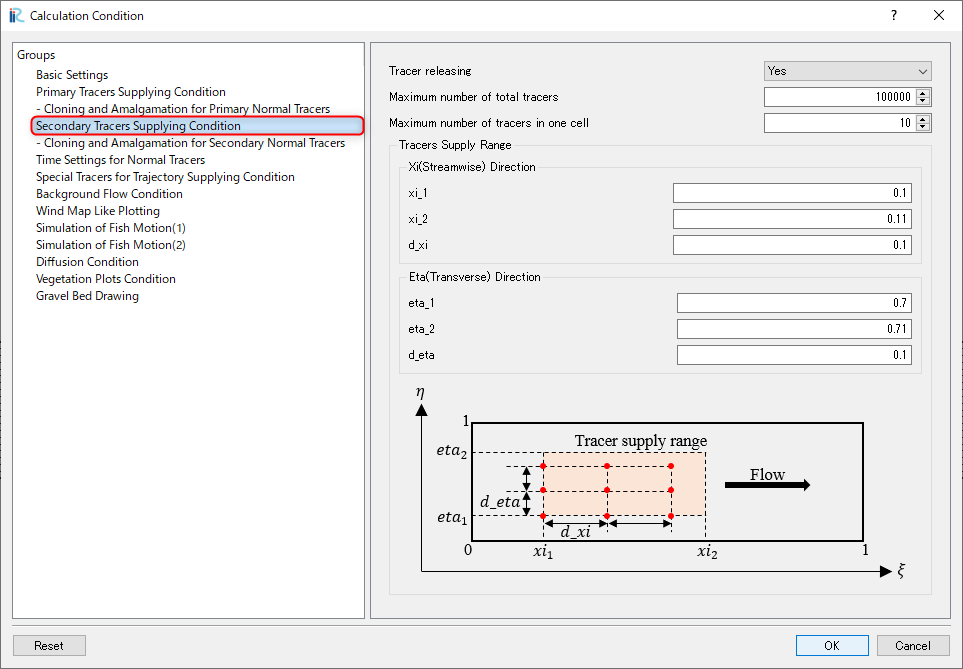
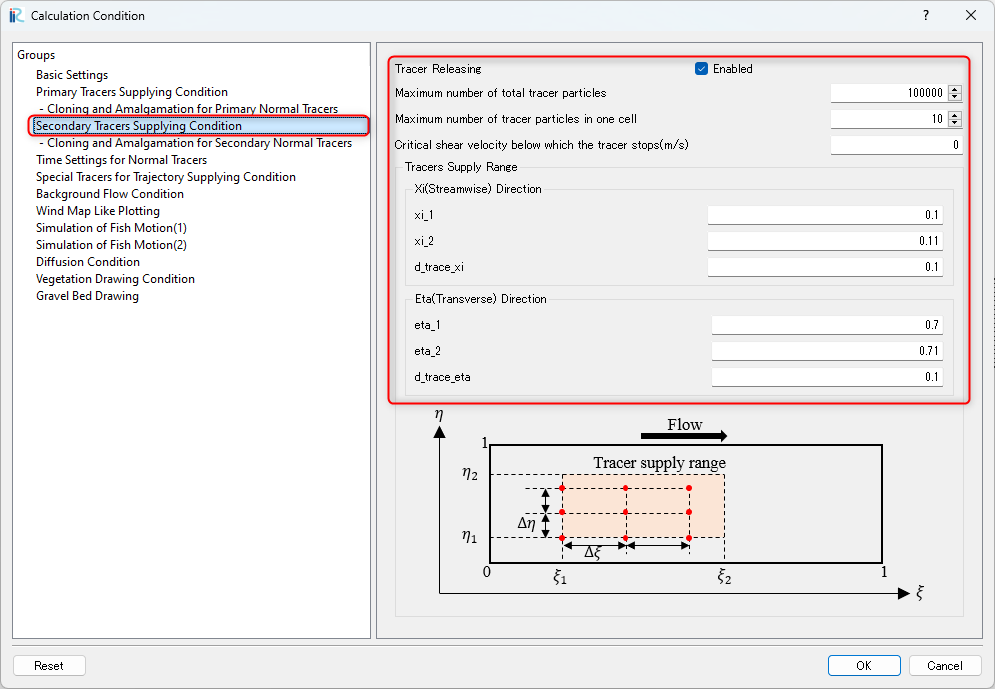
計算例1を更新

Changed region(s): [[0.0, 0.0, 1.0, 1.0], [0.0, 0.0, 0.1558, 0.0299], [0.9034, 0.0, 0.9346, 0.0299]]

diff --git a/source/03_Examples/01_Straight.rst b/source/03_Examples/01_Straight.rst
@@ -37,8 +37,7 @@ Grid Generation
 -------------------
 
 
-From the main menu of the screen, :numref:`01_mudai`, choose [Grid]->[Select Algorithm to Create Grid]
-as :numref:`Select_Alg`.
+From the main menu of the screen, :numref:`01_mudai`, choose [Grid]->[Select Algorithm to Create Grid] as :numref:`Select_Alg`.
 
 .. _Select_Alg:
 
@@ -48,9 +47,7 @@ as :numref:`Select_Alg`.
 
    : Select Algorithm to Create Grid
 
-In the [Select Grid Creating Algorithm] window, 
-select [Simple Straight and Meandering Channel Creator] and click [OK] 
-(:numref:`01_kanni`).
+In the [Select Grid Creating Algorithm] window, select [Simple Straight and Meandering Channel Creator] and click [OK] (:numref:`01_kanni`).
 
 .. _01_kanni:
 
@@ -144,12 +141,26 @@ when you finish, and close this window.
    :Time parameters
 
 
-Select [Time] and set parameters as :numref:`01_joken_4` and click [Save and Close].
+Select [Time] and set parameters as :numref:`01_joken_4` and click [OK].
 
 .. _res_Nays2DH:
 
 Flow calculation run by Nays2DH
 ----------------------------------
+
+From the main menu, when you select [Simulation]->[Run], you will get the message like :numref:`01_warning` .
+Then, select [OK] and save the project with an appropriate name. At this time, do not save the project as an ipro file, but save it as a project.  
+
+.. _01_warning:
+
+.. figure:: images/01/warning.png
+   :align: center
+   :width: 400pt
+
+   :warning
+
+| A window as :numref:`01_jikko` is shown during the computation, and :numref:`01_keisan` appears when the computation is finished. 
+| Then press [OK], and the computation is completed.
 
 .. _01_jikko:
 
@@ -159,13 +170,6 @@ Flow calculation run by Nays2DH
 
    :Window when the solver is running
 
-From the main menu, when you select [Simulation]->[Run], 
-you will get the message like
-"We recommend you to save the project before running solver.  Do you want to save?" 
-Select [Yes] and save the project with an appropriate name.  At this time,  
-do not save the project as an ipro file, but save it as a project. 
-A window as :numref:`01_jikko` is shown during the computation, and :numref:`01_keisan` 
-appears when the computation is finished.  Then press [OK], and the computation is completed.
 
 .. _01_keisan:
 
@@ -177,20 +181,16 @@ appears when the computation is finished.  Then press [OK], and the computation 
 
 
 
-**Important**
-Whenever you finished the computation,  select [File]->[Save] from the menu bar to save the results
-as  :numref:`01_hozon` .
-This result is important for later analysis by GELATO.
+.. note::
+   Whenever you finished the computation,  select [File]->[Save] from the menu bar to save the results as  :numref:`01_hozon` . This result is important for later analysis by GELATO.
 
-.. _01_hozon:
+   .. _01_hozon:
 
-.. figure:: images/01/hozon.png
-   :align: center
-   :width: 100%
+   .. figure:: images/01/hozon.png
+      :align: center
+      :width: 100%
 
-   :Saving computational results
-
-
+      :Saving computational results
 
 
 Visualization of the calculated results
@@ -291,7 +291,7 @@ Then the particle animation starts.
    :align: center
    :width: 100%
 
-   : Particle animation by NAys2DH
+   : Particle animation by Nays2DH
 
 As can be seen in :numref:`01_kekka_13`, since the  
 sub-grid scale turbulence is not included in the output velocity from the solver.
@@ -316,7 +316,7 @@ Select "GELATO" and click "OK" ( :numref:`01_GELATO_kido` ).
    : Selecting GELATO and Starting
 
 
-A window with [Untitled -iRIC 3.0.xxxx] [GELATO] appears, and the GELATO session is started.
+A window with [Untitled -iRIC 4.x.xxxx] [GELATO] appears, and the GELATO session is started.
 (:numref:`01_GELATO_openning` )
 
 .. _01_GELATO_openning:
@@ -350,7 +350,7 @@ Right click [Grid(No Data)] and select [Import] as (:numref:`01_GELATO_import` )
    : Select CGNS file contains grid data
 
 As shown in :numref:`01_GELATO_koshi_1`, select [Case1.cgn] which contains the grid data
-used in the previous section of [Computational Results of NAys2DH], and click [Open].
+used in the previous section of [Computational Results of Nays2DH], and click [Open].
 
 .. _01_GELATO_wng:
 
@@ -438,14 +438,12 @@ the CGNS file produced by the Nays2DH computation.( :ref:`res_Nays2DH` ).
 Launch GELATO
 ^^^^^^^^^^^^^^^
 
-From the main menu bar, select [Simulation]->[Run], then you are asked 
-[Do you want to save?] as :numref:`01_GELATO_jikko_0`.
-When you click [Yes] and save project, the computation starts as 
-:numref:`01_GELATO_jikko_1`.
+From the main menu bar, select [Simulation]->[Run], then you are asked as :numref:`01_GELATO_jikko_0`.
+When you click [OK] and save project, the computation starts as :numref:`01_GELATO_jikko_1`.
 
 .. _01_GELATO_jikko_0:
 
-.. figure:: images/01/GELATO_jikko_0.png
+.. figure:: images/01/warning.png
    :align: center
    :width: 400pt
 
@@ -484,6 +482,16 @@ then [2D Post Processing Window] appears as :numref:`01_GELATO_kekka_0`.
 
    : 2D Post Processing Window
 
+Right-click [Primary Nomal Tracers] and [Secondary Nomal Tracers] in the [Object Browser] and click [propertie]. 
+Then [Particles Scalar Setting] that appears,and you can set the primary and secondary have different colors by setting like :numref:`01_GELATO_kekka_2`.
+
+.. _01_GELATO_kekka_2:
+
+.. figure:: images/01/GELATO_kekka_2.png
+   :align: center
+   :width: 100%
+
+   : Setting particles colors
 
 From the main menu, select [Animation]->[Start/Stop] as :numref:`01_GELATO_kekka_1`,
 animation starts ( :numref:`01_GELATO_00` ).
@@ -496,17 +504,6 @@ animation starts ( :numref:`01_GELATO_00` ).
 
    : Visualization of computational results
 
-Right-click [Primary Nomal Tracers] and [Secondary Nomal Tracers] in the [Object Browser] and click [propertie]. 
-Then [Particles Scalar Setting] that appears,and you can set the primary and secondary have different colors by setting like :numref:`01_GELATO_kekka_2`.
-
-.. _01_GELATO_kekka_2:
-
-.. figure:: images/01/GELATO_kekka_2.png
-   :align: center
-   :width: 100%
-
-   : Setting particles colors
-
 .. _01_GELATO_00:
 
 .. figure:: images/01/GELATO_00.gif
@@ -515,8 +512,7 @@ Then [Particles Scalar Setting] that appears,and you can set the primary and sec
 
    : Tracer movement(No diffusivity)
 
-It is obviously very simple because it  doesn't including any turbulent effect 
-(:numref:`01_GELATO_00`).
+It is obviously very simple because it  doesn't including any turbulent effect (:numref:`01_GELATO_00`).
 
 Single Tracer Tracking(With Turbulent Diffusivity)
 -----------------------------------------------------
@@ -526,8 +522,7 @@ Setting Computational Condition
 
 Change the calculation conditions to take into account for the effect of turbulent diffusion. 
 From the main menu, select [Calculation Conditions] → [Setting], and show the :numref:`01_GELATO_joken_5`.
-Set [Diffusion Condition]->[Diffusivity Correction]->[Yes], 
-set the parameter [A Value] to [1], and then click "Save and Close".
+check the box of [Diffusion Condition]->[Diffusivity Correction] , set the parameter [A Value] to [1], and then click "OK".
 
 .. _01_GELATO_joken_6:
 

diff --git a/source/02_Overview.rst b/source/02_Overview.rst
@@ -147,11 +147,8 @@ and [CGNS file to load flow calculation results] of the bar.
 Computational grids used in GELATO 
 ----------------------------------
 
-In most cases, the computational grid is imported from the GNS files
-which contains the computational flow results.
-As shown in  :numref:`import_grid` , from the "Object Browser" in the "Pre-Preprocessing Window",
-Right-click [Grid(No data)], select [Import], and select a 
-CGNS file which contains the grid information as :numref:`import_grid_1` .
+In most cases, the computational grid is imported from the CGNS files which contains the computational flow results.
+As shown in  :numref:`import_grid` , from the "Object Browser" in the "Pre-Preprocessing Window", Right-click [Grid(No data)], select [Import], and select a CGNS file which contains the grid information as :numref:`import_grid_1` .
 In most cases in iRIC, the file name is [Case1.cgn].
 
 .. _import_grid:

diff --git a/source/03_Examples/03_Real_River.rst b/source/03_Examples/03_Real_River.rst
@@ -249,7 +249,7 @@ Set Calculation Condition
 From the main menu, select [calculation Condition]->[Setting], and
 input parameters in the [Calculation Condition] window as the following figures of
 :numref:`03_018`, :numref:`03_019`,  :numref:`03_020`,  :numref:`03_021`,  :numref:`03_022`
-and :numref:`03_023`.  When you finished to input parameters, press [Save and Close].
+and :numref:`03_023`.  When you finished to input parameters, press [OK].
 
 .. _03_018:
 
